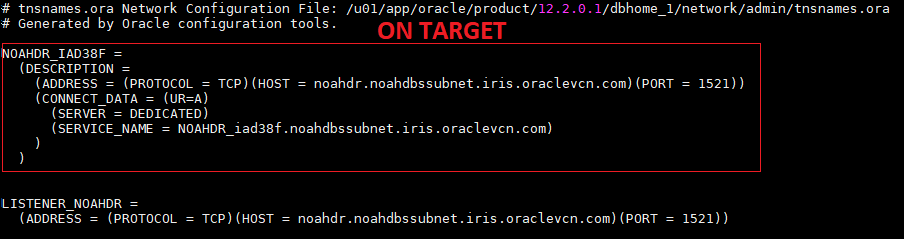
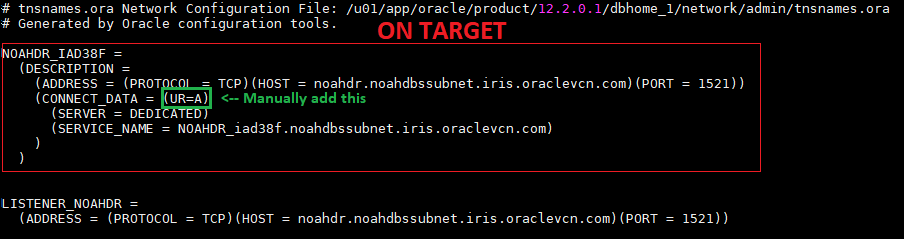
yes

Changed region(s): [[0.1549, 0.3515, 0.4027, 0.4686]]

diff --git a/LabGuideNOAH.md b/LabGuideNOAH.md
@@ -7,6 +7,8 @@ Manual Active Oracle Data Guard
 * [Preparing Standby (Target) database](#target-prep)
   * [Creating our STANDBY pfile](#pfile_create)
 * [Setting up connectivity](#conn-setup)
+* [Running active duplicate from primary](#rman-dupe)
+* [Post active duplication steps](#rman-post-dupe)
 
 <!-- ASSUMPTIONS SECTION START -->
 <!-- ASSUMPTIONS SECTION START -->
@@ -339,8 +341,39 @@ Now, edit the below to fit your parameters and then paste it into the init{targe
 Don't forget to save and exit VI (:x or :wq), and make sure there are no extra lines or missing apostrophes!
 ![](./screenshots/NOAHscreenshots/trgt_initfile.png)
 
-#### Starting up the shell standby database with our created PFILE
-This is where it can get annoying, but Oracle's error handling
+#### Testing pfile, and creating spfile
+This is where it can get annoying, but Oracle's error handling is pretty good. We're going to use the pfile we just created to startup the database in nomount. We are then going to create an spfile into our ASM data directory from the pfile.
+
+To startup the database with our pfile -:
+```
+$ sqlplus / as sysdba
+SQL> startup nomount pfile='$ORACLE_HOME/dbs/init{target_sid}.ora';
+```
+![](./screenshots/NOAHscreenshots/pfile_startup.png)
+
+Now, create a spfile from this pfile. We do this so everytime we start up the database, it's going to use the spfile. That's why we "test" the pfile first before converting it, to make sure it'll work.
+```
+SQL> create spfile='+{asm_data}/{target_unqname}/spfile{target_sid}.ora' from pfile='$ORACLE_HOME/dbs/init{target_sid}.ora';
+SQL> startup nomount force;
+SQL> show parameter spfile;
+```
+![](./screenshots/NOAHscreenshots/spfile_created.png)
+
+Now, we know that it works. Take the result from "show parameter spfile" and copy it for our next step. We're now going to edit the pfile we originally made, and remove everything. All we're going to have in the pfile is a reference to the "show parameter spfile". We're also going to backup the pfile we made, just incase we need to use it later for troubleshooting.
+
+Backup our pfile we made -:
+```
+$ cd $ORACLE_HOME/dbs
+$ mv init{target_sid}.ora RECOVERY_init{target_sid}.ora
+```
+![](./screenshots/NOAHscreenshots/init_RECO_mv.png)
+
+Now, created a pfile named init{target_sid}.ora, and add the one line, screenshot below.
+```
+$ vi init{target_sid}.ora
+(add your show parameter spfile)
+```
+![](./screenshots/NOAHscreenshots/spfile_in_pfile.png)
 
 [Top](#Table-of-Contents)
 <!-- TARGET PREP SECTION END -->
@@ -353,8 +386,6 @@ This is where it can get annoying, but Oracle's error handling
 <!-- CONNECTIVITY SECTION START -->
 <!-- CONNECTIVITY SECTION START -->
 
-
-<!-- WIP
 <a name="conn-setup"></a>
 # Setting up connectivity between source and target
 In order to allow cross connection between our two databases, we're going to have to add entries to both tnsnames.ora in $ORACLE_HOME/network/admin. Go ahead and cat the tnsnames.ora, and you can get an idea of what it looks like.
@@ -387,22 +418,69 @@ TARGET
 ![](./screenshots/NOAHscreenshots/trgt_tns_add_src.png)
 
 #### Testing database connectivity
-TARGET
+##### TESTING CONNECTIVITY FROM TARGET (STANDBY) TO SOURCE (PRIMARY)!!!!
+***AKA, MAKE SURE YOU'RE RUNNING THIS ONE ON THE TARGET DATABASE***
 ```
 sqlplus sys/[password]@[source_unqname] as sysdba
 ```
+![](./screenshots/NOAHscreenshots/trgt_2_src.png)
 
-Now, after you can connect to the source let's go ahead and bring up the shell database in nomount
-![](./screenshots/NOAHscreenshots/src_db_con_trgt.png)
-
-SOURCE
+##### TESTING CONNECTIVITY FROM SOURCE (PRIMARY) TO TARGET (STANDBY)!!!!
+***AKA, MAKE SURE YOU'RE RUNNING THIS ONE ON THE SOURCE DATABASE***
 ```
 sqlplus sys/[password]@[target_unqname] as sysdba
 ```
-![](./screenshots/NOAHscreenshots/src_db_con_trgt.png)
+![](./screenshots/NOAHscreenshots/src_2_trgt.png)
+
+If you can connect, configurations... you're really close! If not, it's always going to be something with networking, which means it can be your listener or OCI security lists.
+
+[Information on the Oracle listener](https://docs.oracle.com/cd/B19306_01/network.102/b14212/connect.htm)
+
+[Information on OCI security lists](https://docs.cloud.oracle.com/en-us/iaas/Content/Network/Concepts/securitylists.htm)
+
 [Top](#Table-of-Contents)
 <!-- CONNECTIVITY SECTION END -->
 <!-- CONNECTIVITY SECTION END -->
 <!-- CONNECTIVITY SECTION END -->
 
 <!-- =========================================================================================== -->
+
+<!-- DUPLICATION SECTION START -->
+<!-- DUPLICATION SECTION START -->
+<!-- DUPLICATION SECTION START -->
+<a name="rman-dupe"></a>
+# Running active duplicate from primary
+### Make sure you're on the SOURCE (PRIMARY) database!!
+You may see "target" and get confused, but just follow the syntax. Basically, you target into your current source database and then set the target as your auxiliary all in this one liner.
+```
+$ rman target sys/[password]@[source_unqname] auxiliary sys/[password]@[target_unqname]
+```
+![](./screenshots/NOAHscreenshots/rman_target_aux.png)
+
+Now, just run this command and it'll duplicate to the standby. If it fails, Oracle has pretty good error handling and will give you specifics. This will take some time depending on your database size, in a lab environment it will run rather quick since you don't have much data. If this is a big database though, I would recommend making a .sh script with the rman connect string, and a run code block with the command below. Then nohup ./ the script, then tail the nohup. This makes it run in the background.
+```
+RMAN> duplicate target database for standby from active database nofilenamecheck;
+```
+![](./screenshots/NOAHscreenshots/dup_kickoff.png)
+![](./screenshots/NOAHscreenshots/dup_progress.png)
+
+Once you see this, it is done... You'll now need to do some more work to finish everything up
+![](./screenshots/NOAHscreenshots/dup_done.png)
+
+[Top](#Table-of-Contents)
+<!-- DUPLICATION SECTION END -->
+<!-- DUPLICATION SECTION END -->
+<!-- DUPLICATION SECTION END -->
+
+<!-- =========================================================================================== -->
+
+<!-- POST DUPLICATION SECTION START -->
+<!-- POST DUPLICATION SECTION START -->
+<!-- POST DUPLICATION SECTION START -->
+<a name="rman-post-dupe"></a>
+# Post active duplication steps
+
+[Top](#Table-of-Contents)
+<!-- POST DUPLICATION SECTION END -->
+<!-- POST DUPLICATION SECTION END -->
+<!-- POST DUPLICATION SECTION END -->
